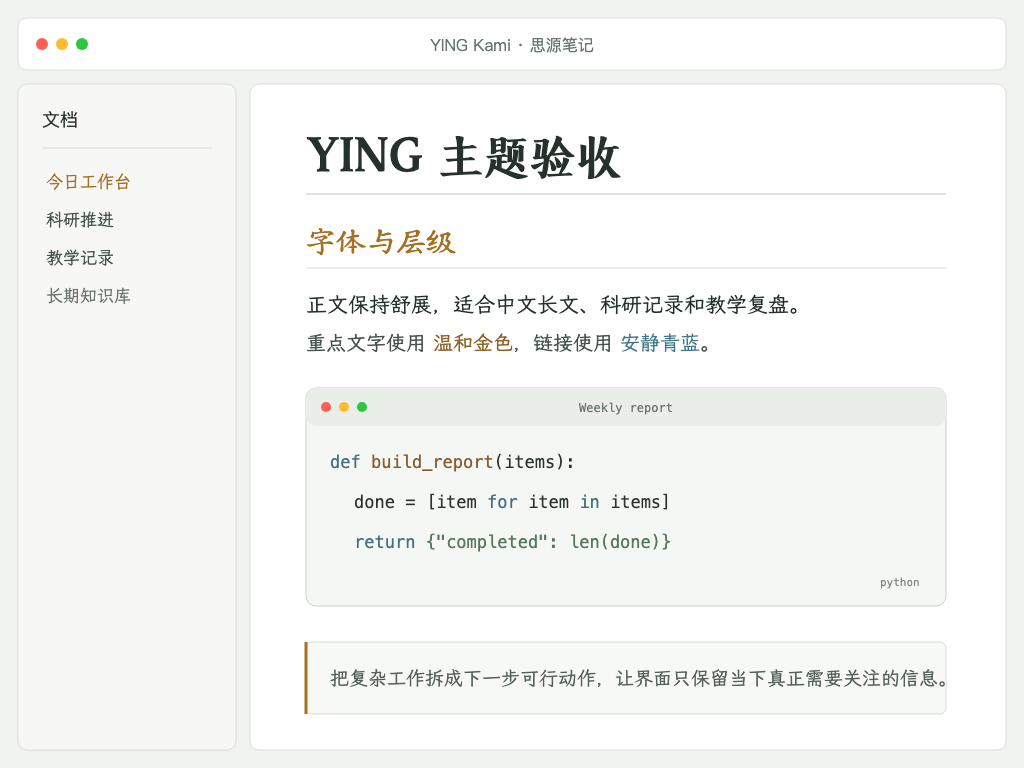
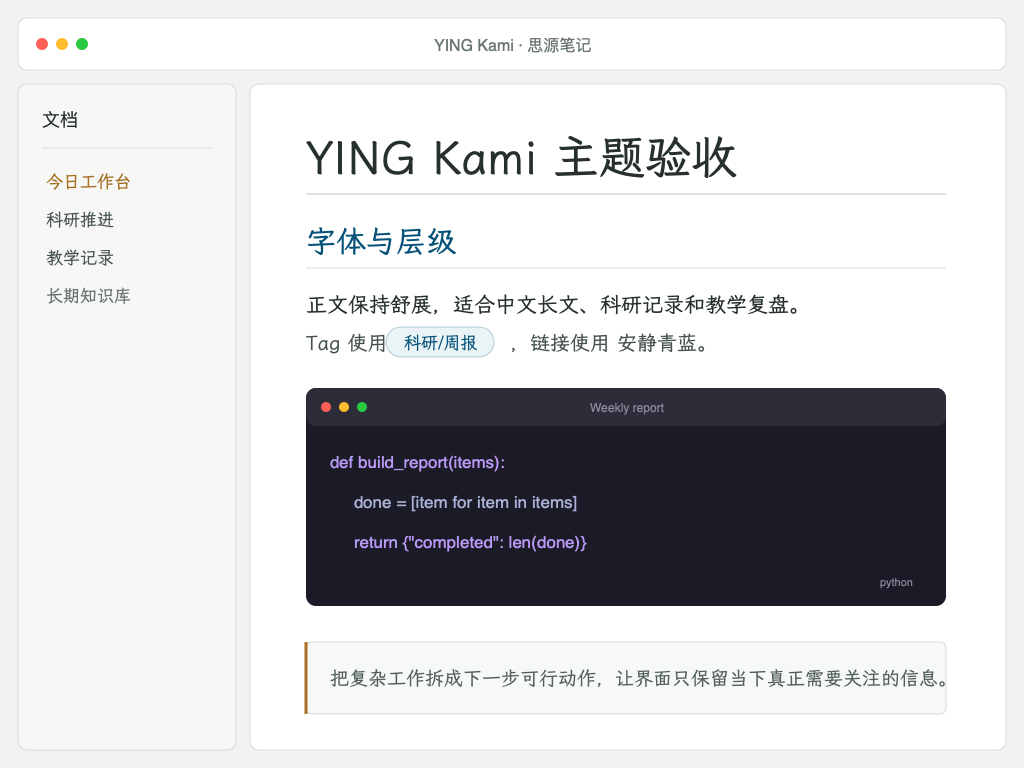
chore: prepare community release metadata

diff --git a/CHANGELOG.md b/CHANGELOG.md
@@ -1,5 +1,9 @@
 # Changelog
 
+## 0.1.10
+
+- Refresh marketplace metadata and preview artwork so the first community release matches the accepted heading, tag and code-panel styles.
+
 ## 0.1.9
 
 - Render inline tags as subtle blue capsules with a translucent background, fine outline and accessible hover state.
